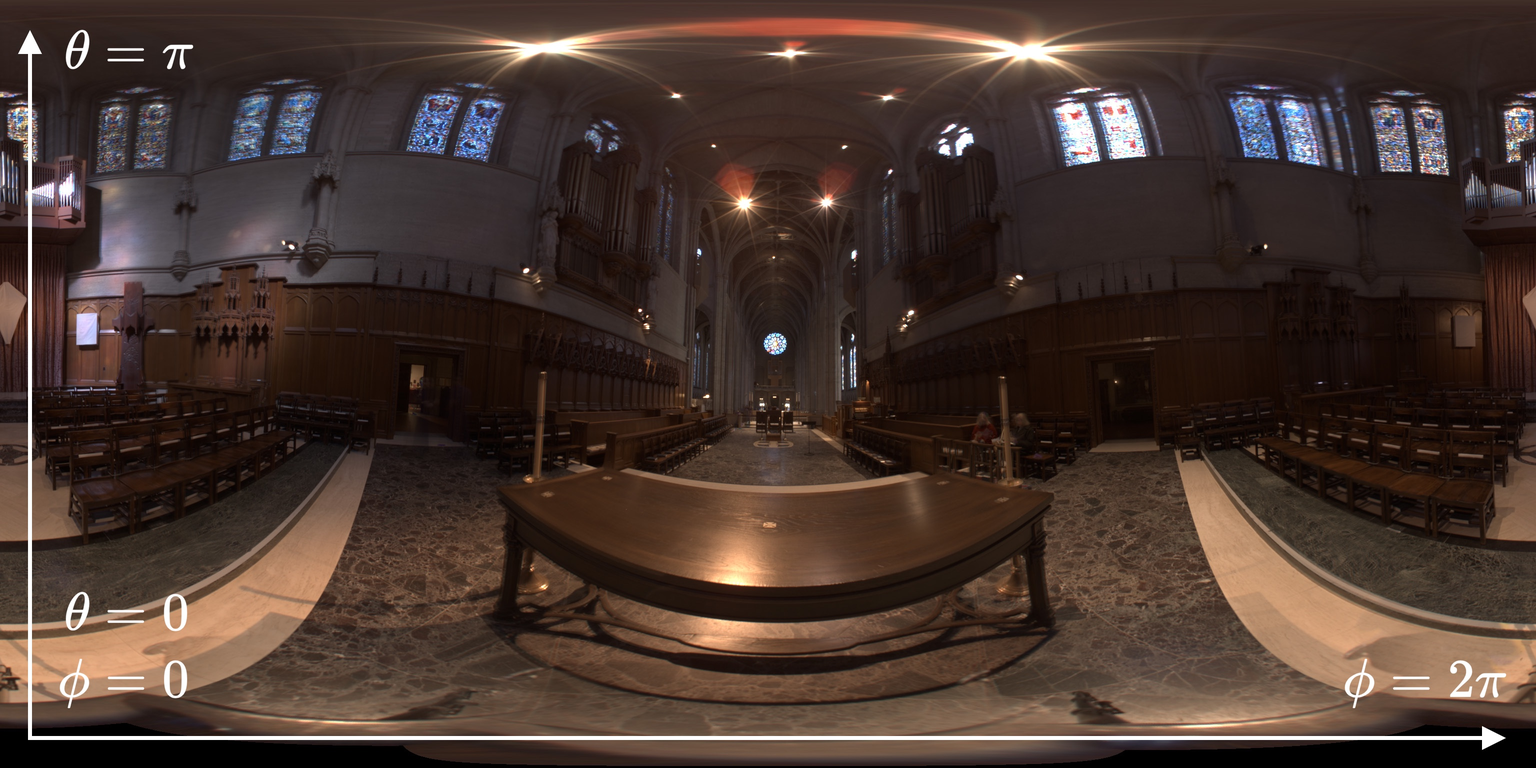
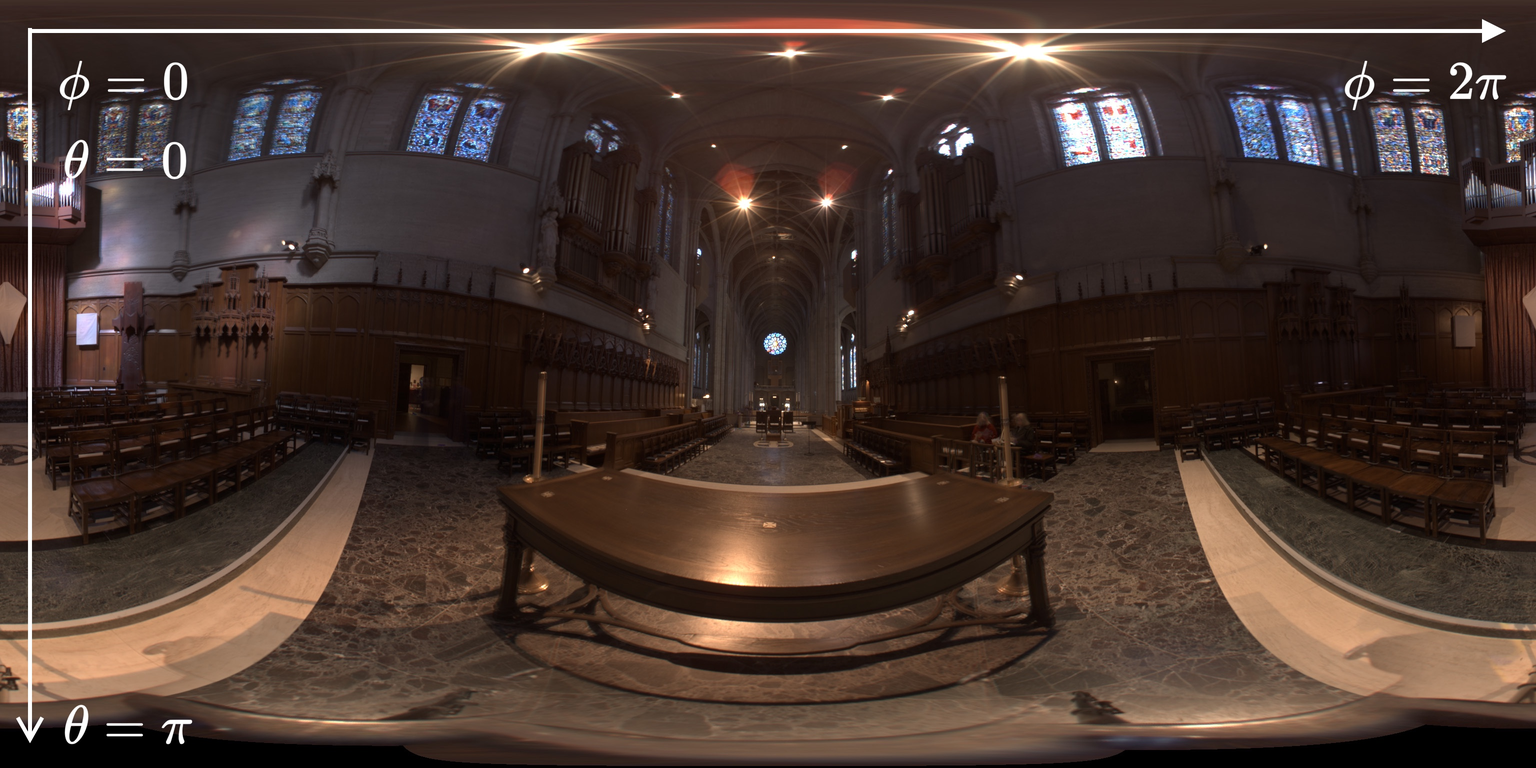
more clarifications on task5 and task7

diff --git a/assignments/A3/T7-environment-lighting.md b/assignments/A3/T7-environment-lighting.md
@@ -8,7 +8,7 @@ The intensity of incoming light from each direction is defined by a texture map 
 
 In this task you will get `Environment_Lights::Sphere` working by implementing `Samplers::Sphere::Uniform` and `Samplers::Sphere::Image` in `src/pathtracer/samplers.cpp`. You'll start with uniform sampling to get things working, and then move onto a more advanced implementation that uses **importance sampling** to significantly reduce variance in rendered images.
 
-Note that for the purposes of this task, $(0,0)$ is the **bottom left** of the HDR image, not the **top left**.  Think about how this will affect your calculation of the $\theta$ value for a pixel.
+Note that in Scotty3D, $(x,y) = (0,0)$ is the **bottom left** of the HDR image instead of the **top left**. However, when mapped to the $(\phi,\theta)$-space, it becomes $(\phi, \theta) = (0, \pi)$. Think about how this will affect your calculation of the $\theta$ value for a pixel.
 
 ---
 
@@ -40,7 +40,7 @@ The question is now how to efficiently get samples from this discrete distributi
 
 The bulk of the importance sampling algorithm will be found as `Samplers::Sphere::Image` in `src/pathtracer/samplers.cpp`. You will need to implement the constructor, the inversion sampling function, and the PDF function, which returns the value of your PDF at a particular direction.
 
-Be sure your `Samplers::Sphere::Image::pdf()` function takes into account the fact that different elements of your computed `pdf_` take up different areas on the surface of the sphere (so need to be weighted differently).
+Be sure your `Samplers::Sphere::Image::pdf()` function takes into account the fact that different elements of your computed `pdf_` take up different areas on the surface of the sphere (so need to be weighted differently). The closer a pixel to the top edge or the bottom edge of the image, the less area it takes up on the sphere. 
 
 Or, to say that more verbosely: the PDF value that corresponds to a pixel in the HDR map should be
 multiplied by the Jacobian below before being returned by
@@ -64,7 +64,7 @@ sphere to the unit sphere, we need to go from integrating over $(d\phi, d\theta)
 solid angle $(d\omega)$. Since we know that $d\omega = \sin(\theta) d\phi d\theta$,
 if we want our new distribution to still integrate to 1, we must divide by $\sin(\theta)$, our second Jacobian.
 
-Altogether, the final Jacobian is $\frac{wh}{2\pi^2 \sin(\theta)}$.
+Altogether, the final Jacobian is $\frac{wh}{2\pi^2 \sin(\theta)}$. This explains why the pixel areas on the sphere becomes smaller and smaller as it approaches the two poles of the sphere — we know that $\sin\theta \to 0$ as $\theta \to 0$ or $\theta \to \pi$.
 
 In order to test importance sampling, make sure that the variable `IMPORTANCE_SAMPLING` at the top of `src/pathtracer/samplers.cpp` is set to `true`. You should also set `SAMPLE_AREA_LIGHTS` in `src/pathtracer/pathtracer.cpp` to `true`.
 
@@ -72,7 +72,7 @@ In order to test importance sampling, make sure that the variable `IMPORTANCE_SA
 
 ### Tips
 
-- When computing areas corresponding to a pixel, use the value of angles at the pixel centers.
+- When computing areas corresponding to a pixel, use the value of angles at the pixel centers. You should also take into account that the $y$-axis and the $\theta$-axis are oriented differently.
 - Compute the PDF and CDF in the constructor of `Samplers::Sphere::Image` and store their values in fields `_pdf` and `_cdf` respectively. See `src/pathtracer/sampler.h`. Make sure you normalize these values at some point in your calculations.
 - `Spectrum::luma()` returns the luminance (brightness) of a Spectrum. The weight assigned to a pixel should be proportional to both its luminance and the solid angle it subtends.
 - For inversion sampling, use [`std::upper_bound`](https://en.cppreference.com/w/cpp/algorithm/upper_bound): it's a standard library function for binary search.

diff --git a/assignments/A3/T5-materials.md b/assignments/A3/T5-materials.md
@@ -55,7 +55,7 @@ Your implementation should assume that rays always travel from or to a _vacuum_ 
 - If the outgoing ray is **entering** the surface, then it was previously travelling in a vacuum i.e. the incoming ray was travelling in a vacuum.
 - If the outgoing ray is **leaving** the surface, then it is entering a vacuum.
 
-These two cases are illustrated by the figure below. Observe that whether the outgoing ray enters the surface depends on the sign of $(\omega_t \cdot \hat{n})$. Feel free to use this quantity directly, or further simplify it using the fact that $\hat{n}=(0, 1, 0)$ in our case. Also, note that the surface normal $\hat n$ always points into the vacuum.
+These two cases are illustrated by the figure below, where the white region is the vacuum and the gray region is the material. Observe that whether the outgoing ray enters the surface depends on the sign of $\omega_t \cdot \hat{n}$. Feel free to use this quantity directly, or further simplify it using the fact that $\hat{n}=(0, 1, 0)$ in our case. Also, note that the surface normal $\hat n$ always points into the vacuum.
 
 <p align="center"><img src="figures\refract.svg" style="height:500px"></p>
 
@@ -67,7 +67,7 @@ $$\sin(\theta_i) = \frac{\eta_t\sin(\theta_t)}{\eta_i}\overset{?}{>} 1$$
 
 Although we described the BRDF for perfect specular reflection in class, we did not discuss the distribution function for transmitted light. Unlike reflection, refraction "spreads" or "condenses" a differential beam of light. Hence, a refraction event should change the radiance along a ray.
 
-After using Snell's Law to find the direction of refracted rays, compute the BSDF attenuation using the distribution function found in Pharr, Jakob, and and Humphries's book [Physically Based Rendering](http://www.pbr-book.org/3ed-2018/Reflection_Models/Specular_Reflection_and_Transmission.html). Since this material is pure refraction, we won't need to weight the attenuation on the Fresnel coefficient.
+After using Snell's Law to find the direction of refracted rays, compute the BSDF attenuation using the distribution function found in Pharr, Jakob, and and Humphries's book [Physically Based Rendering](http://www.pbr-book.org/3ed-2018/Reflection_Models/Specular_Reflection_and_Transmission.html). Since this material is pure refraction, we won't need to weight the attenuation on the Fresnel coefficient. However, do note that the derivations in the book attempts to find $\theta_t$ given $\theta_i$, which is the contrary of our derivations. When applying the equations and figures from the book, you should swap the subscripts $i$ and $t$ accordingly.
 
 
 ## Step 3: `Materials::Glass`
@@ -100,6 +100,7 @@ Therefore, for a dielectric material, the fraction of reflected light will be gi
 ## Tips
 
 - Check your sphere intersection code, as you may have bugs there that were not exposed by rendering Lambertian spheres in Task 4.
+- When calculating the direction of the incoming ray, keep in mind that the normal always points into the vacuum.
 - Check the behavior of your refract function when `index_of_refraction = 1.f`. This should not change the transmitted direction, hence make the glass sphere transparent.
 - Test reflection and refraction separately, i.e. ignore the Fresnel coefficient and only refract or reflect. Once you've verified that those are correct, then go ahead and reintroduce the Fresnel coefficient and split rays between reflection  and refraction.
 - We've provided some **very** basic test cases in `test.a3.task5.bsdf.*.cpp`. Similar to Task 4, we highly recommend testing via the GUI as you're able to get visual feedback on what is happening with these different materials.
